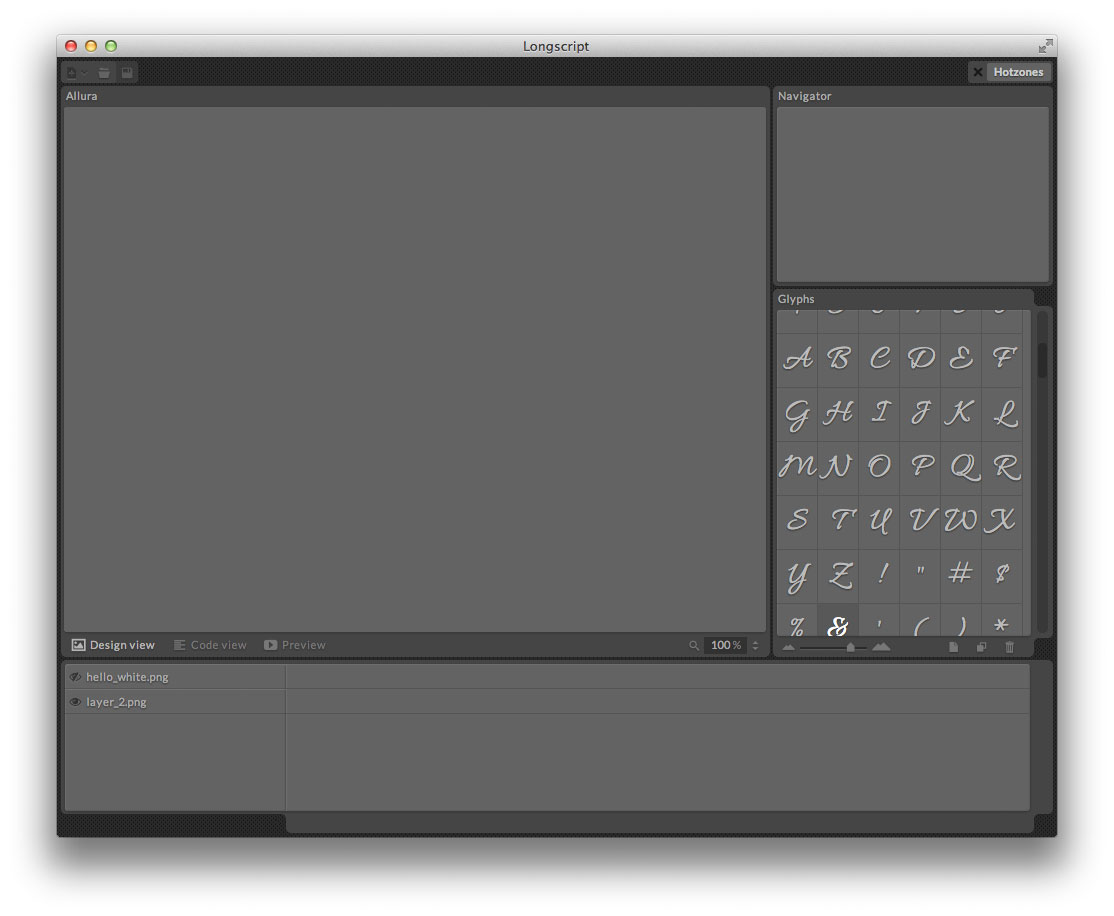
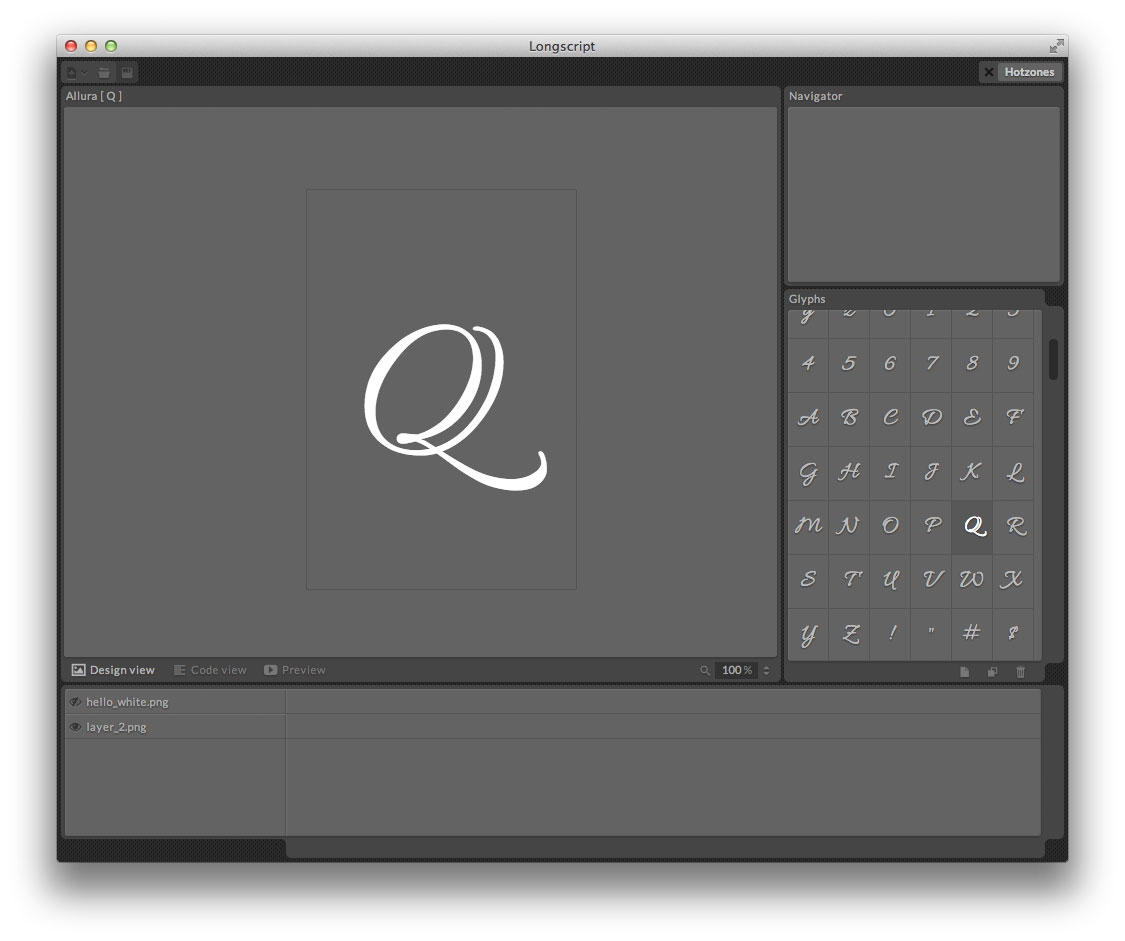
observer implemented

diff --git a/res/js/app/assets.js b/res/js/app/assets.js
@@ -1,16 +1,18 @@
 
 sys.app.assets = {
+	active: 'A',
 	init: function() {
+		sys.observer.on('font_loaded', this.doEvent);
+
 		this.fill_chars();
 		this.sizes.init();
 	},
 	chars:  'abcdefghijklmnopqrstuvwxyz0123456789ABCDEFGHIJKLMNOPQRSTUVWXYZ'+
-			'!"#$%&\'()*+,-./:;<=>?@[\\]^_`'+
+			'!"#$%&\'()*+,-./:;<=>?@[\\]^_`ˆˇ˘˙˚˛˜˝–—‘’‚“”„•‹›€'+
 			'{|}~¡¢£¤¥§¨©ª«¬®¯°±´µ¶·¸º»¿ÀÁÂÃÄÅÆÇÈÉÊ'+
 			'ËÌÍÎÏÐÑÒÓÔÕÖ×ØÙÚÛÜÝÞßàáâãäåæçèéêëìíîïðñòóôõö÷øùúûüýþÿĀāĂăĄąĆćĈĉĊ'+
 			'ċČčĎďĐđĒēĔĕĖėĘęĚěĜĝĞğĠġĢģĤĥĦħĨĩĪīĬĭĮįİıĲĳĴĵĶķĸĹĺĻļĽľĿŀŁłŃńŅņŇňŉŊ'+
-			'ŋŌōŎŏŐőŒœŔŕŖŗŘřŚśŜŝŞşŠšŢţŤťŦŧŨũŪūŬŭŮůŰűŲųŴŵŶŷŸŹźŻżŽžſƒǼǽǾǿȘșȚțˆˇ'+
-			'˘˙˚˛˜˝–—‘’‚“”„•‹›€',
+			'ŋŌōŎŏŐőŒœŔŕŖŗŘřŚśŜŝŞşŠšŢţŤťŦŧŨũŪūŬŭŮůŰűŲųŴŵŶŷŸŹźŻżŽžſƒǼǽǾǿȘșȚț',
 	fill_chars: function() {
 		var chars = this.chars,
 			i     = 0,
@@ -19,10 +21,25 @@ sys.app.assets = {
 		for (; i<il; i++) {
 			str += '<li>'+ chars[i] +'</li>';
 		}
-		jr('.fonts').html(str);
+		jr('.fonts')
+			.html(str)
+			.on('click', 'li', this.doEvent);
 	},
 	doEvent: function(event) {
-		
+		var _app = sys.app,
+			_el  = sys.el,
+			self = _app.assets;
+		switch(event.type) {
+			case 'click':
+				jr(this.parentNode).find('.active').removeClass('active');
+				jr(this).addClass('active');
+				self.active = this.textContent;
+				sys.observer.trigger('active_letter', self);
+				break;
+			case 'font_loaded':
+				_el.assetsList.style.fontFamily = _app.font.info.family;
+				break;
+		}
 	},
 	sizes: {
 		init: function() {
@@ -30,7 +47,10 @@ sys.app.assets = {
 			//jr(document).on('contextmenu', 'body, *[data-context]', sys.context.doEvent);
 		},
 		doEvent: function(event) {
-			var _size = sys.app.assets.sizes,
+			var _app = sys.app,
+				_el  = sys.el,
+				self = _app.assets,
+				_size = self.sizes,
 				srcEl = event.target,
 				dim,
 				left;

diff --git a/res/js/app/app.js b/res/js/app/app.js
@@ -13,14 +13,46 @@ sys.app = {
 			if (typeof(this[n].init) === 'function') this[n].init(this);
 		}
 
-		//this.loadFont('Over the Rainbow');
-		this.loadFont('Allura');
+		this.font.init();
 	},
-	loadFont: function(name) {
-		var xFont = sys.fs.xml.selectSingleNode('//fonts/*[@name="'+ name +'"]');
+	font: {
+		info: {},
+		init: function() {
+			// used to measure font letter
+			var span = document.body.appendChild(document.createElement('span'));
+				span.className = 'measuringSpan';
+				this.measuringSpan = span;
 
-		sys.el.canvasTitle.innerHTML = xFont.getAttribute('name');
-		sys.el.fontLoader.href = xFont.getAttribute('url');
-		sys.el.assetsList.style.fontFamily = xFont.getAttribute('font-family');
+			//this.load('Over the Rainbow');
+			this.load('Allura');
+		},
+		measure: function() {
+			// Measure character width
+			var self  = this,
+				span  = self.measuringSpan;
+
+			span.style.font  = '100px '+ self.info.xNode.getAttribute('font-family');
+			span.textContent = 'QQQQQWWWWWXXXXX';
+			self.info.width  = parseInt(span.offsetWidth / 15, 10);
+			self.info.height = span.offsetHeight;
+			
+			sys.observer.trigger('font_loaded', self);
+		},
+		load: function(name) {
+			var _sys  = sys,
+				self  = this,
+				xFont = _sys.fs.xml.selectSingleNode('//fonts/*[@name="'+ name +'"]');
+
+			self.info.xNode  = xFont;
+			self.info.family = xFont.getAttribute('font-family');
+			self.info.name   = xFont.getAttribute('name');
+
+			_sys.el.fontLoader.onload = function() {
+				setTimeout(function() {
+					self.measure();
+				}, 80);
+			};
+			_sys.el.fontLoader.href = xFont.getAttribute('url');
+		}
 	}
 };

diff --git a/res/js/app/canvas.js b/res/js/app/canvas.js
@@ -1,7 +1,51 @@
 
 sys.app.canvas = {
 	init: function() {
-		
+		sys.observer.on('font_loaded', this.doEvent);
+		sys.observer.on('active_letter', this.doEvent);
+
+		this.cvs = sys.el.cvs;
+		this.cvs.width = this.cvs.offsetWidth;
+		this.cvs.height = this.cvs.offsetHeight;
+		this.ctx = this.cvs.getContext('2d');
+	},
+	doEvent: function(event) {
+		var _app = sys.app,
+			_el  = sys.el;
+		switch(event.type) {
+			case 'active_letter':
+			case 'font_loaded':
+				_el.canvasTitle.innerHTML = _app.font.info.name +' [ '+ _app.assets.active +' ]';
+				_app.canvas.draw();
+				break;
+		}
+	},
+	draw: function() {
+		var _app = sys.app,
+			self = _app.canvas,
+			ctx = self.ctx,
+			w = self.cvs.width,
+			h = self.cvs.height;
+
+		// for crispy lines
+		ctx.translate(.5,.5);
+
+		ctx.beginPath();
+		//ctx.fillStyle = '#636363';
+		//ctx.fillRect(0, 0, w, h);
+		ctx.clearRect(0, 0, w, h);
+
+		ctx.strokeStyle = '#555';
+		ctx.lineWidth = 1;
+		//ctx.clearRect(240, 80, 270, 400);
+		ctx.rect(240, 80, 270, 400);
+		ctx.stroke();
+
+		ctx.textBaseline = 'top';
+		ctx.fillStyle = '#fff';
+		ctx.textAlign = 'center';
+		ctx.font = '200px '+ sys.app.font.info.family;
+		ctx.fillText(_app.assets.active, w/2, h/2 - 100);
 	},
 	opacity: function(val) {
 		var els = sys.el;

diff --git a/res/js/utils/extras.js b/res/js/utils/extras.js
@@ -1,6 +1,40 @@
 /* jshint unused:false*/
 
 /***  COMMON  ***/
+var observer = function() {
+	var stack = {};
+	return {
+		on: function(type, fn) {
+			if (!stack[type]) {
+				stack[type] = [];
+			}
+			stack[type].push(fn);
+		},
+		off: function(type, fn) {
+			if (!stack[type]) return;
+			var i = stack[type].indexOf(fn);
+			stack[type].splice(i,1);
+		},
+		trigger: function(type, src) {
+			if (!stack[type]) return;
+			var event = {
+					type : type,
+					source : src,
+					isCanceled : false,
+					cancelBubble : function() {
+						this.isCanceled = true;
+					}
+				},
+				i = 0,
+				il = stack[type].length;
+			for (; i<il; i++) {
+				if (event.isCanceled) return;
+				stack[type][i](event);
+			}
+		}
+	};
+};
+
 var transform = function(options) {
 	var fragment,
 		ownerDocument,

diff --git a/res/css/app.css b/res/css/app.css
@@ -860,6 +860,14 @@ figure {
   line-height: 0;
   height: 0;
 }
+.measuringSpan {
+  position: absolute;
+  top: 100px;
+  left: 100px;
+  color: #fff;
+  z-index: -1;
+  opacity: 0;
+}
 .area.top {
   top: 0px;
   height: 22px;
@@ -868,6 +876,12 @@ figure {
   top: 25px;
   bottom: 176px;
   right: 283px;
+}
+.area.canvas canvas {
+  position: relative;
+  width: 100%;
+  height: 100%;
+  z-index: 2;
 }
 .area.canvas .content {
   left: 3px;
@@ -1088,6 +1102,7 @@ figure {
   cursor: pointer;
   -webkit-transition: 100ms all ease-in-out;
 }
+.fonts li.active,
 .fonts li:hover {
   background: rgba(0, 0, 0, 0.1);
   color: #fff;

diff --git a/index.htm b/index.htm
@@ -22,9 +22,9 @@
 <script type="text/javascript" src="res/js/utils/junior.js"></script>
 <!-- app specific -->
 <script type="text/javascript" src="res/js/app/app.js"></script>
-<script type="text/javascript" src="res/js/app/assets.js"></script>
-<script type="text/javascript" src="res/js/app/navigator.js"></script>
 <script type="text/javascript" src="res/js/app/canvas.js"></script>
+<script type="text/javascript" src="res/js/app/navigator.js"></script>
+<script type="text/javascript" src="res/js/app/assets.js"></script>
 <script type="text/javascript" src="res/js/app/timeline.js"></script>
 </head>
 <body>

diff --git a/res/css/app.less b/res/css/app.less
@@ -22,6 +22,15 @@
 
 @import 'sys.less';
 
+.measuringSpan {
+	position: absolute;
+	top: 100px;
+	left: 100px;
+	color: #fff;
+	z-index: -1;
+	opacity: 0;
+}
+
 .area {
 	&.top {
 		top: 0px;
@@ -31,6 +40,13 @@
 		top: 25px;
 		bottom: 176px;
 		right: 283px;
+
+		canvas {
+			position: relative;
+			width: 100%;
+			height: 100%;
+			z-index: 2;
+		}
 
 		.content {
 			left: 3px;
@@ -297,6 +313,7 @@
 		cursor: pointer;
 		-webkit-transition: 100ms all ease-in-out;
 
+		&.active,
 		&:hover {
 			background: rgba(0,0,0,0.1);
 			color: #fff;

diff --git a/res/js/utils/sys.js b/res/js/utils/sys.js
@@ -13,6 +13,9 @@ require('module')._cache = {};
 			this.appwin = gui.Window.get();
 			//this.appwin.on('close', this.quit);
 
+			// initiate observer
+			this.observer = observer();
+
 			// collection for fast access
 			var els = this.el,
 				appEls = jr('*[data-el]');
